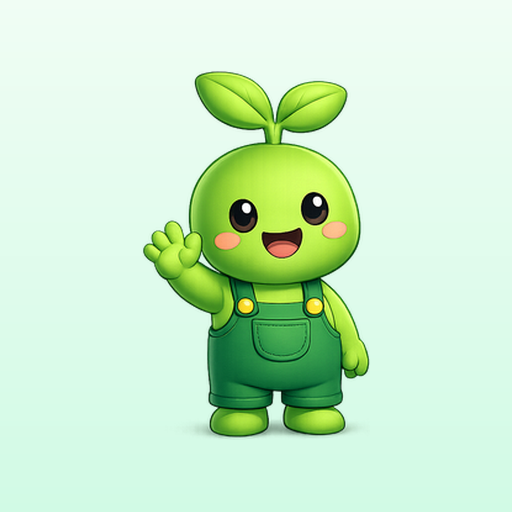
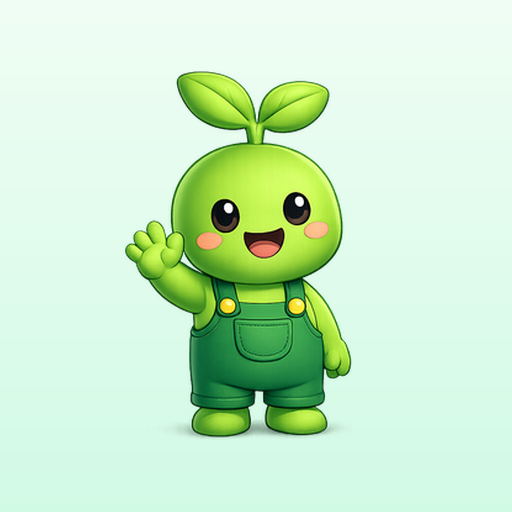
Centre the mascot on his feet, not on the box his wave draws
He waves, and the raised arm reaches further from his body than anything
on his other side. Centring the artwork's bounding box therefore balanced
the arm and left the mascot himself sitting off to one side — the icon's
midline ran through his shoulder rather than down between his feet.

The eye reads a standing figure's axis from where it meets the ground, so
the feet decide the alignment now. Margins come out lopsided, 44px against
56px, which is the intended result: he is centred and the wave overhangs.

He is also sized against whichever side needs the most room rather than
against his full width, so the arm can never become the thing that runs
off the edge. His height still limits him in practice, so he has not
changed size — only moved.

Changed region(s): [[0.2188, 0.125, 0.7188, 0.875]]

diff --git a/tools/icons/build.py b/tools/icons/build.py
@@ -51,6 +51,21 @@ def gradient(size):
     return strip.resize((size, size))
 
 
+def feet_centre(art):
+    """The x the mascot actually looks centred on.
+
+    He waves, and the raised arm reaches further from his body than anything on
+    the other side. Centring on the artwork's bounding box therefore shoves him
+    off to one side of the icon, arm balanced but body visibly adrift. The eye
+    reads a standing figure's axis from where it meets the ground, so take the
+    middle of his feet and centre on that instead.
+    """
+    w, h = art.size
+    band = art.getchannel("A").point(lambda p: 255 if p > 8 else 0)
+    box = band.crop((0, int(h * 0.88), w, h)).getbbox()
+    return (box[0] + box[2]) / 2 if box else w / 2
+
+
 def main():
     try:
         from PIL import Image
@@ -65,13 +80,19 @@ def main():
     box = src.getchannel("A").point(lambda p: 255 if p > 8 else 0).getbbox()
     art = src.crop(box)
 
+    cx = feet_centre(art)
+    # Once he is centred on his feet, the side his arm is on needs the most
+    # room. Size him to that half rather than to his width, or the wave would
+    # be the thing that hangs over the edge.
+    half = max(cx, art.width - cx)
+
     for path, size in TARGETS:
         canvas = gradient(size)
         room = size * (1 - 2 * PAD)
-        scale = min(room / art.width, room / art.height)
+        scale = min(room / (2 * half), room / art.height)
         w, h = round(art.width * scale), round(art.height * scale)
         mascot = art.resize((w, h), Image.LANCZOS)
-        canvas.paste(mascot, ((size - w) // 2, (size - h) // 2), mascot)
+        canvas.paste(mascot, (round(size / 2 - cx * scale), (size - h) // 2), mascot)
         canvas.save(path, optimize=True)
         print(f"  {path.relative_to(ROOT)}  {size}x{size}  "
               f"{path.stat().st_size // 1024} KB")
